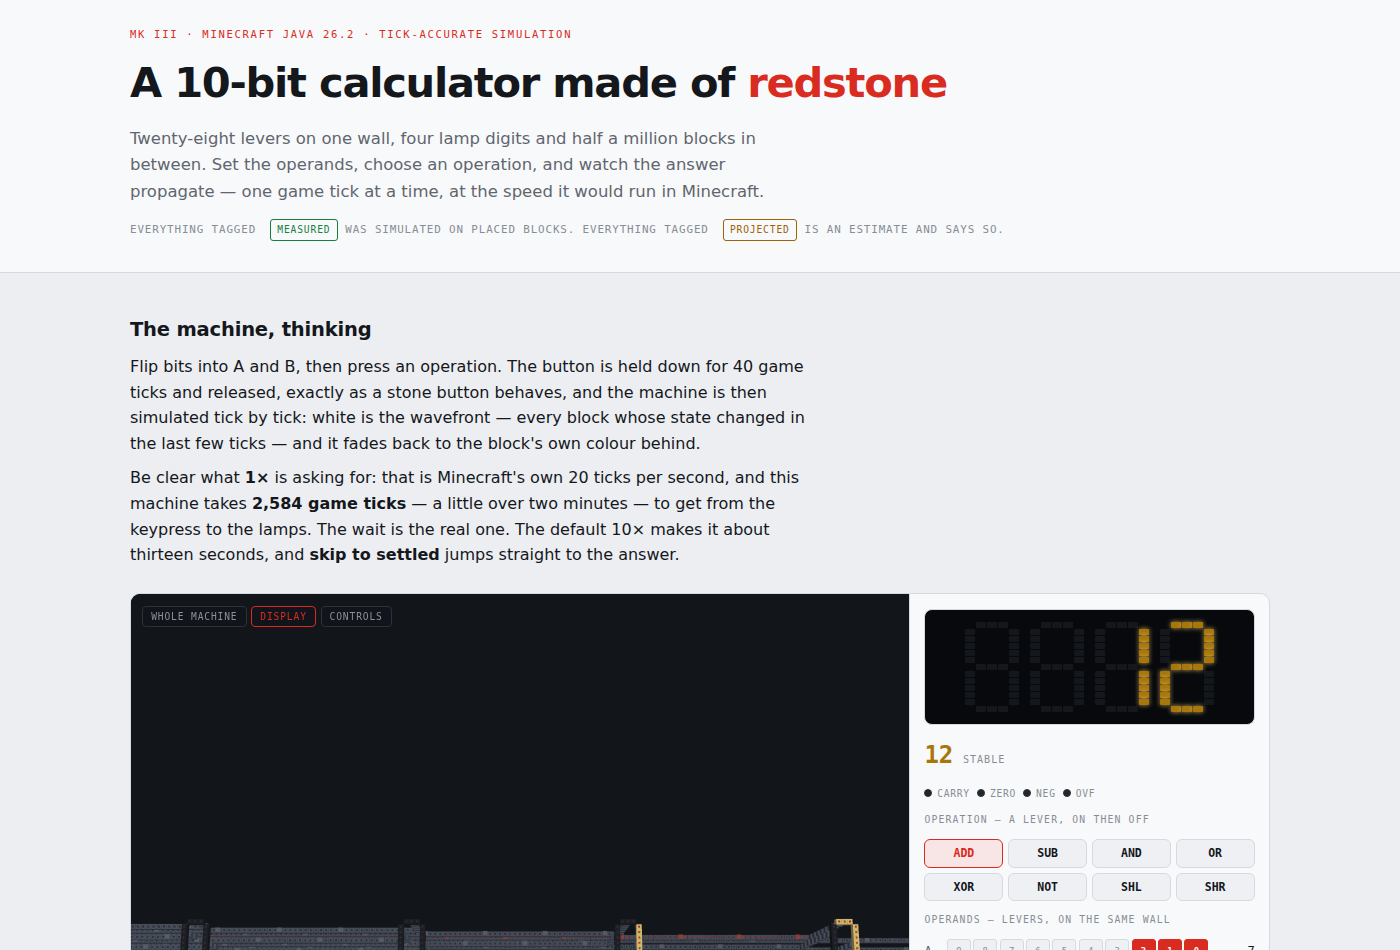
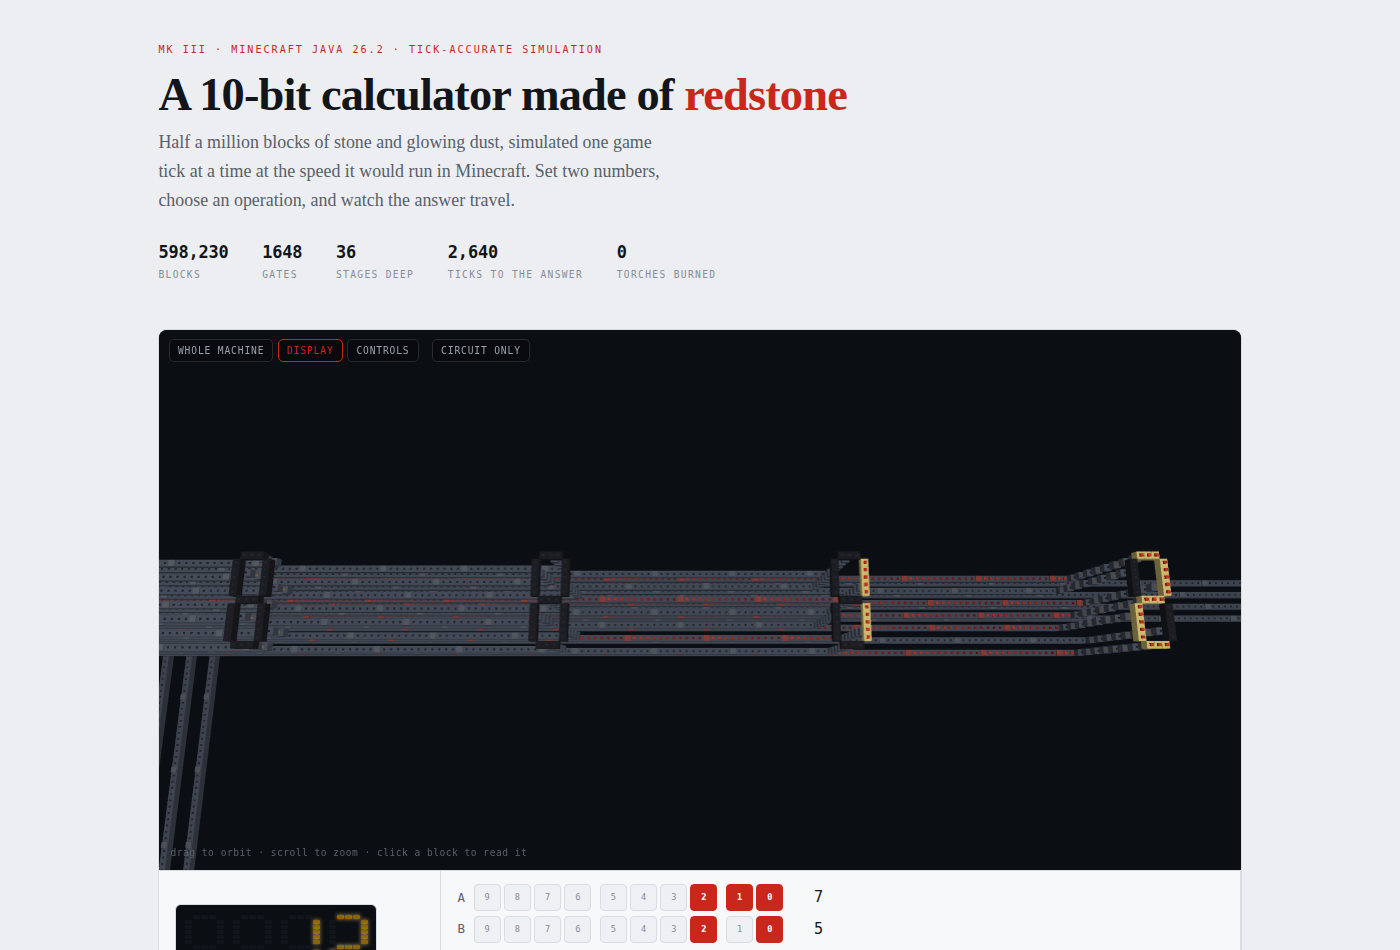
Frame the whole machine again, and photograph the renamed rig
Two follow-ups to the viewer rebuild, one cosmetic and one not.

A merged structure run is stored by its first block, and `allPoints()` handed
the camera that block and nothing else — so the "whole machine" view was framed
on each slab's start and never its far end, cropping by up to nine hundred
blocks on the longest one. Both ends are offered now.

That is the same shape as every other fault in this project. The merge itself
was right, the audit written for it passed, and what broke was two functions
away in code there was no reason to re-read.

`check_preview.mjs` also still photographed `.console`, which the rebuild
renamed to `.rig`, and did it without pausing playback — Playwright waits for a
stable box and the tick loop does not stop on its own after a keypress. Every
assertion in that run had already passed; it died on its last line.

diff --git a/docs/preview.html b/docs/preview.html
@@ -1521,8 +1521,15 @@ function frameOn(points,margin){
   invalidate();
 }
 function allPoints(){
+  // a merged run is stored by its first block, so its far end has to be offered
+  // to the framing too or the camera crops the machine by half a slab
   const p=[];
-  for(const i of inst)p.push([world.bx[i],world.by[i],world.bz[i]]);
+  for(let j=0;j<inst.length;j++){
+    const i=inst[j];
+    p.push([world.bx[i],world.by[i],world.bz[i]]);
+    if(runs[j]>1||runsZ[j]>1)
+      p.push([world.bx[i]+runs[j]-1,world.by[i],world.bz[i]+runsZ[j]-1]);
+  }
   return p;
 }
 function lampPoints(){

diff --git a/docs/preview_template.html b/docs/preview_template.html
@@ -1088,8 +1088,15 @@ function frameOn(points,margin){
   invalidate();
 }
 function allPoints(){
+  // a merged run is stored by its first block, so its far end has to be offered
+  // to the framing too or the camera crops the machine by half a slab
   const p=[];
-  for(const i of inst)p.push([world.bx[i],world.by[i],world.bz[i]]);
+  for(let j=0;j<inst.length;j++){
+    const i=inst[j];
+    p.push([world.bx[i],world.by[i],world.bz[i]]);
+    if(runs[j]>1||runsZ[j]>1)
+      p.push([world.bx[i]+runs[j]-1,world.by[i],world.bz[i]+runsZ[j]-1]);
+  }
   return p;
 }
 function lampPoints(){
